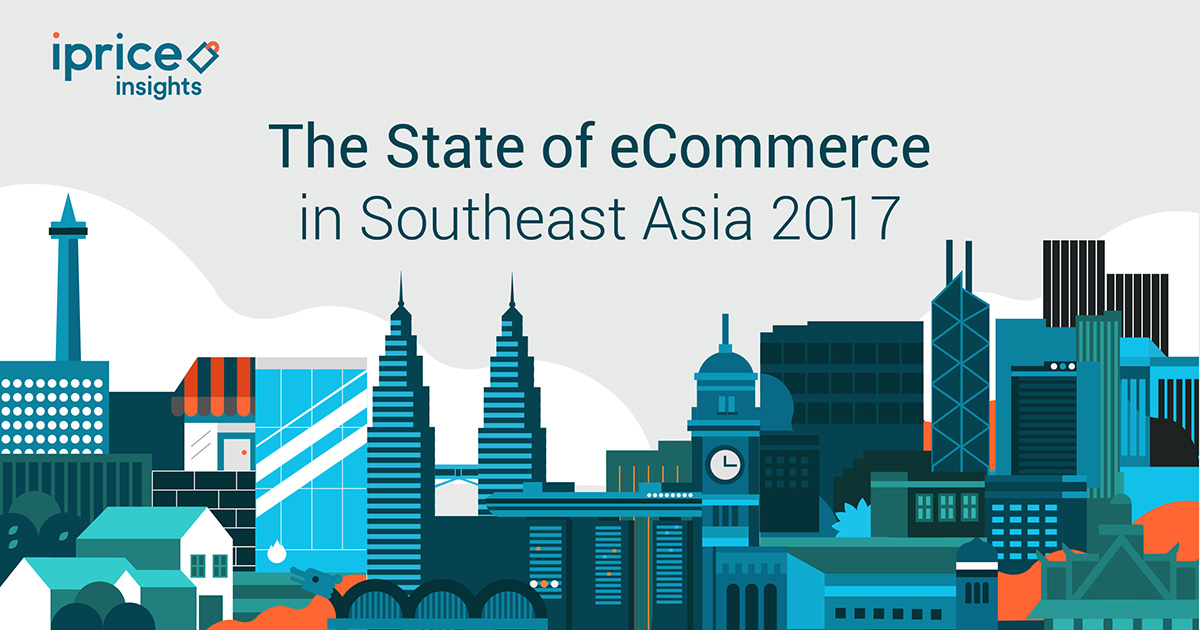
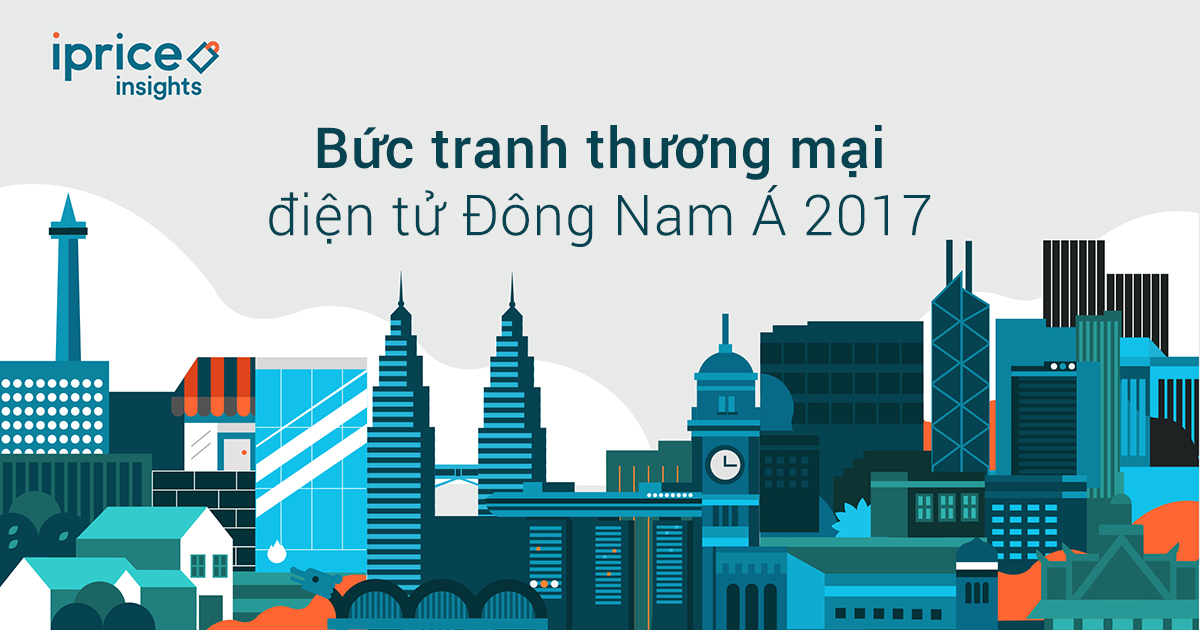
Update 29-01-2018 - Update embed code - Update VN Image

Changed region(s): [[0.2158, 0.181, 0.7708, 0.3921]]

diff --git a/vn/stateofecommerce2017/embed/app.js b/vn/stateofecommerce2017/embed/app.js
@@ -20,7 +20,8 @@ a.controller('mainController', function($scope, $http, $window, $location){
                   break;
             case 'th': var data_url = 'graph.data.th.json'
                   break;
-            case 'vn': var data_url = 'graph.data.vn.json'
+            case 'vn': var data_url = 'graph.data.vn.json';
+                        var avg = 'Trung bình'
                   break;
             default: var data_url = 'graph.data.json';
                         var avg  = 'Average';
@@ -89,7 +90,7 @@ a.controller('mainController', function($scope, $http, $window, $location){
 
                   main.setAttribute( 'class', 'embedded-graph');
                   _el.setAttribute( 'class', 'copyright');
-                  _el.innerHTML = '<p><strong>State of eCommerce in Asia Tenggara 2017</strong><a href="https://iprice.co.id" target="_blank">Powered by iPrice</a></p>';
+                  _el.innerHTML = '<p><strong>Bức tranh thương mại điện tử Đông Nam Á 2017</strong><a href="https://iprice.vn" target="_blank">Powered by iPrice</a></p>';
 
                   main.appendChild(_el);
 

diff --git a/my/stateofecommerce2017/embed/app.js b/my/stateofecommerce2017/embed/app.js
@@ -89,7 +89,7 @@ a.controller('mainController', function($scope, $http, $window, $location){
 
                   main.setAttribute( 'class', 'embedded-graph');
                   _el.setAttribute( 'class', 'copyright');
-                  _el.innerHTML = '<p><strong>State of eCommerce in Asia Tenggara 2017</strong><a href="https://iprice.co.id" target="_blank">Powered by iPrice</a></p>';
+                  _el.innerHTML = '<p><strong>State of eCommerce in Asia Tenggara 2017</strong><a href="https://iprice.my" target="_blank">Powered by iPrice</a></p>';
 
                   main.appendChild(_el);
 

diff --git a/ph/stateofecommerce2017/embed/app.js b/ph/stateofecommerce2017/embed/app.js
@@ -89,7 +89,7 @@ a.controller('mainController', function($scope, $http, $window, $location){
 
                   main.setAttribute( 'class', 'embedded-graph');
                   _el.setAttribute( 'class', 'copyright');
-                  _el.innerHTML = '<p><strong>State of eCommerce in Asia Tenggara 2017</strong><a href="https://iprice.co.id" target="_blank">Powered by iPrice</a></p>';
+                  _el.innerHTML = '<p><strong>State of eCommerce in Asia Tenggara 2017</strong><a href="https://iprice.ph" target="_blank">Powered by iPrice</a></p>';
 
                   main.appendChild(_el);
 

diff --git a/sg/stateofecommerce2017/embed/app.js b/sg/stateofecommerce2017/embed/app.js
@@ -89,7 +89,7 @@ a.controller('mainController', function($scope, $http, $window, $location){
 
                   main.setAttribute( 'class', 'embedded-graph');
                   _el.setAttribute( 'class', 'copyright');
-                  _el.innerHTML = '<p><strong>State of eCommerce in Asia Tenggara 2017</strong><a href="https://iprice.co.id" target="_blank">Powered by iPrice</a></p>';
+                  _el.innerHTML = '<p><strong>State of eCommerce in Asia Tenggara 2017</strong><a href="https://iprice.sg" target="_blank">Powered by iPrice</a></p>';
 
                   main.appendChild(_el);
 
